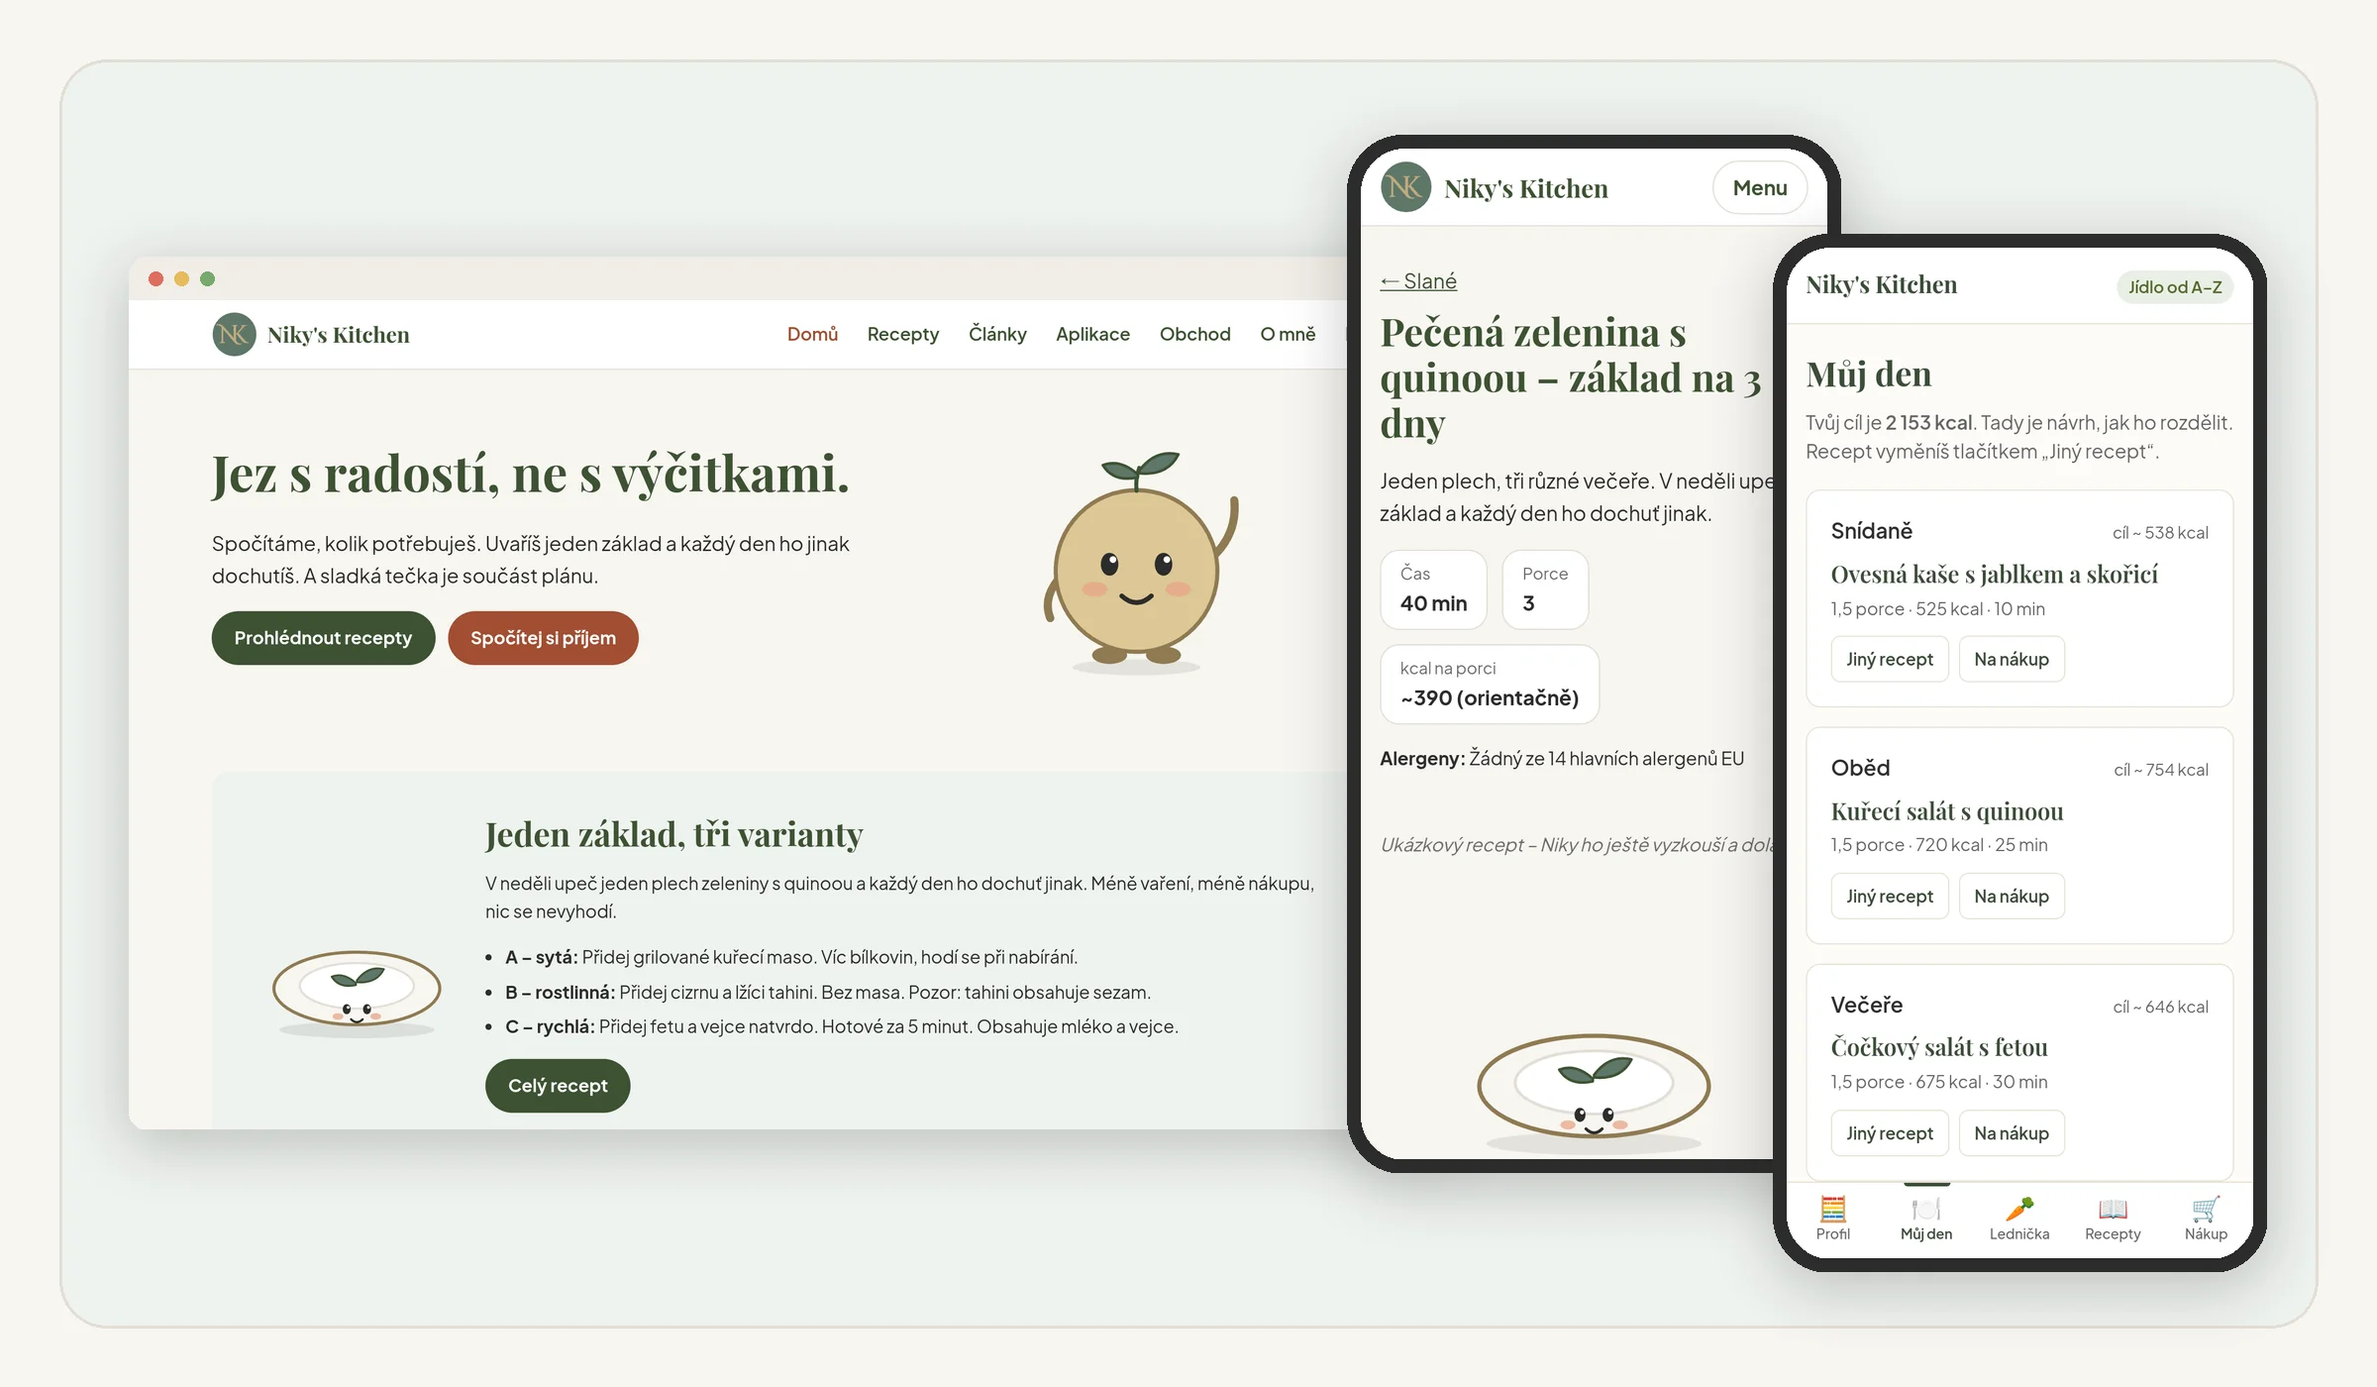
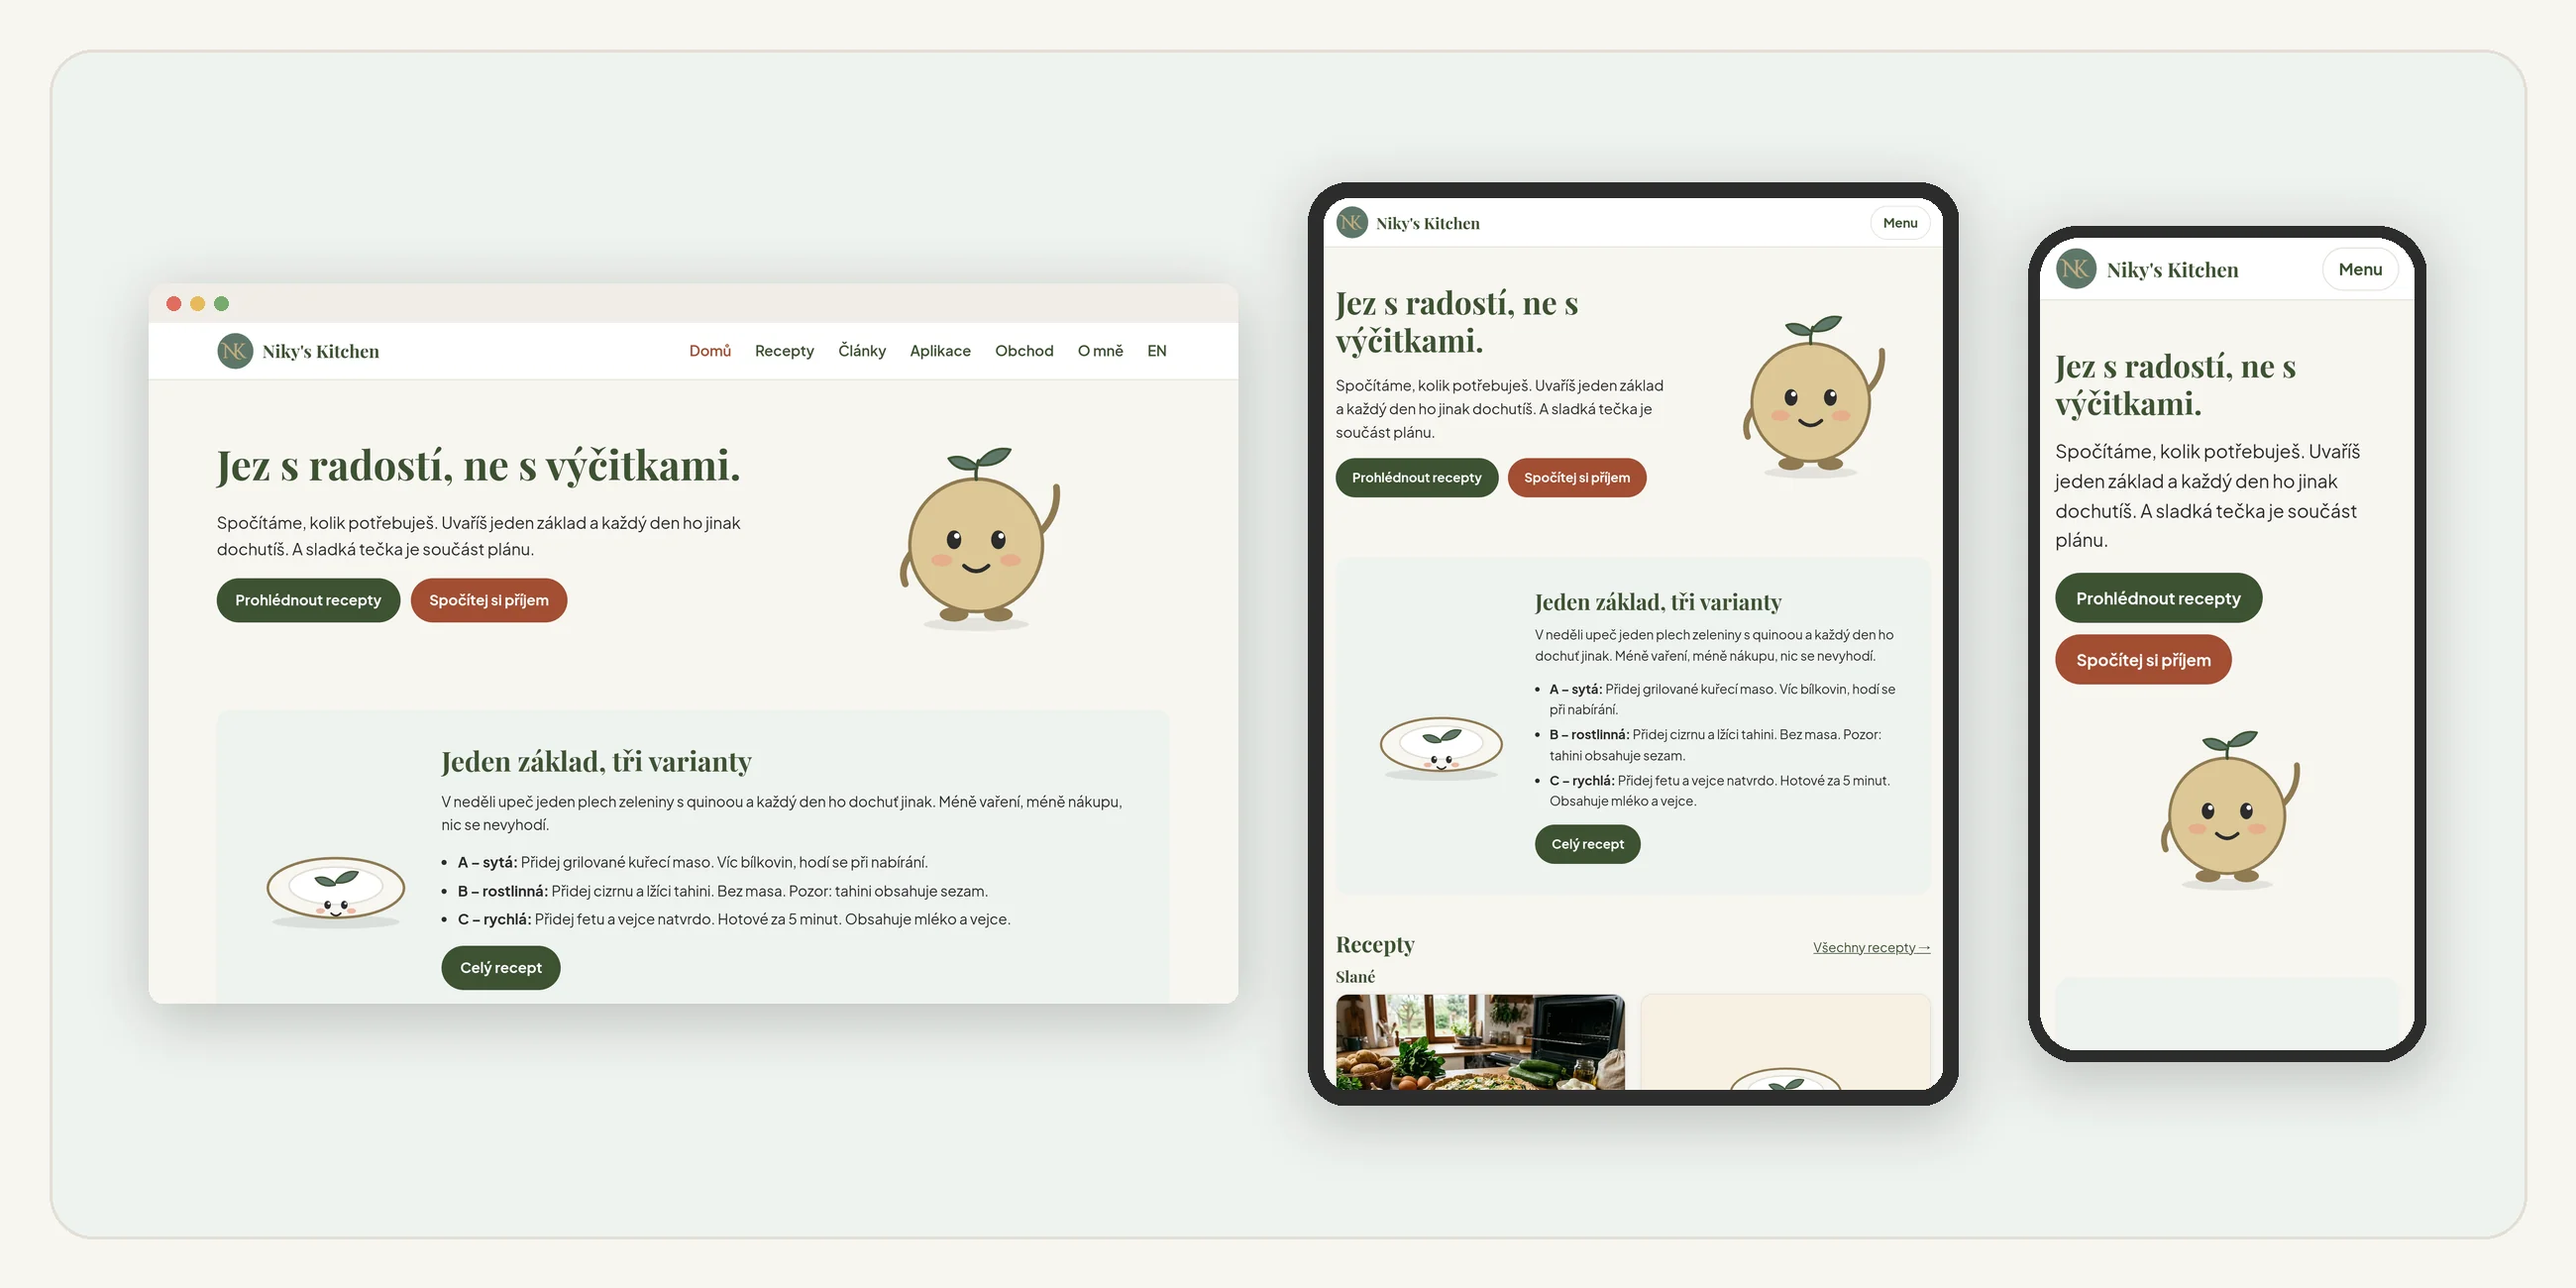
README: ukázka responzivity na počítači, tabletu a mobilu

Changed region(s): [[0.0312, 0.0923, 0.9688, 0.9538]]

diff --git a/README.md b/README.md
@@ -4,7 +4,7 @@
 
 Nový web značky **Niky's Kitchen**: recepty (slané, sladké, nápoje) a krátké články o výživě, česky i anglicky. Časem tu bude i appka a obchod – všechno v jednom projektu.
 
-![Niky's Kitchen – web na počítači a v mobilu, vpravo appka Jídlo od A–Z](docs/ukazky/ukazka-niky-web.webp)
+![Úvodní stránka Niky's Kitchen na počítači, tabletu a mobilu](docs/ukazky/ukazka-niky-web.webp)
 
 **Technologie:** Next.js 16 (React 19), PostgreSQL 17, Docker, GitHub Actions + GitHub Pages, čeština a angličtina, přístupnost (WCAG).
 
@@ -60,6 +60,10 @@ Na webu: odkazy z receptů a článků vedou do appky (stránka Aplikace) a do o
 - Čeština a angličtina (`/cs/`, `/en/`), responzivní, přístupnost (WCAG), maskot Tečka
 
 ## Ukázky
+
+**Responzivní design:** stejná stránka na počítači, tabletu i mobilu.
+
+![Recept Koláč od Niky na počítači, tabletu a mobilu](docs/ukazky/responzivita-recept.webp)
 
 | Recept na počítači | Přehled receptů |
 |---|---|
